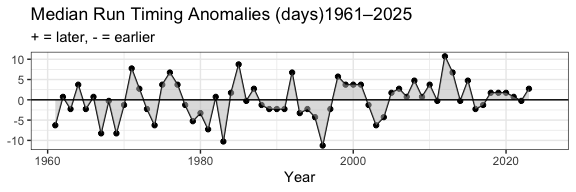
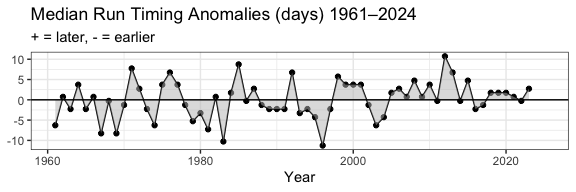
Re-render pre-season

Changed region(s): [[0.5625, 0.0312, 0.7188, 0.125]]

diff --git a/pre-season-forecast/README.md b/pre-season-forecast/README.md
@@ -525,7 +525,9 @@ forecast_timeseries
 ### Median dates over time
 
 ``` r
-yukon <- yukon %>% mutate(diff = mdj - mean(mdj, na.rm = TRUE))
+yukon <- yukon %>%
+  mutate(diff = mdj - mean(mdj, na.rm = TRUE))
+
 ggplot(data = yukon, aes(year, diff)) +
   geom_line() +
   geom_point() +
@@ -533,7 +535,7 @@ ggplot(data = yukon, aes(year, diff)) +
   geom_hline(yintercept=0) +
   xlab("Year") +
   ylab(NULL) +
-  ggtitle("Median Run Timing Anomalies (days), 1961–2022",
+  ggtitle(paste0("Median Run Timing Anomalies (days) ", min(yukon$year), "–", max(yukon$year)-1),
           subtitle = "+ = later, - = earlier")
 ```
 
